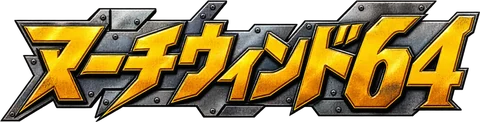
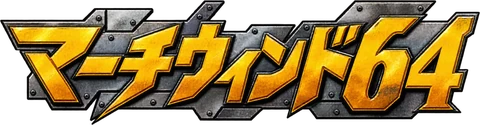
brand: new Japanese wordmark, with its Steam art and website copies

diff --git a/web/src/i18n.ts b/web/src/i18n.ts
@@ -108,5 +108,5 @@ export const TITLE_LOGO: Record<Lang, { alt: string; h: number }> = {
   zh: { alt: '三月风64', h: 432 },
   tw: { alt: '三月風64', h: 424 },
   en: { alt: 'MARCHWIND 64', h: 403 },
-  ja: { alt: 'マーチウィンド64', h: 355 },
+  ja: { alt: 'マーチウィンド64', h: 363 },
 };
